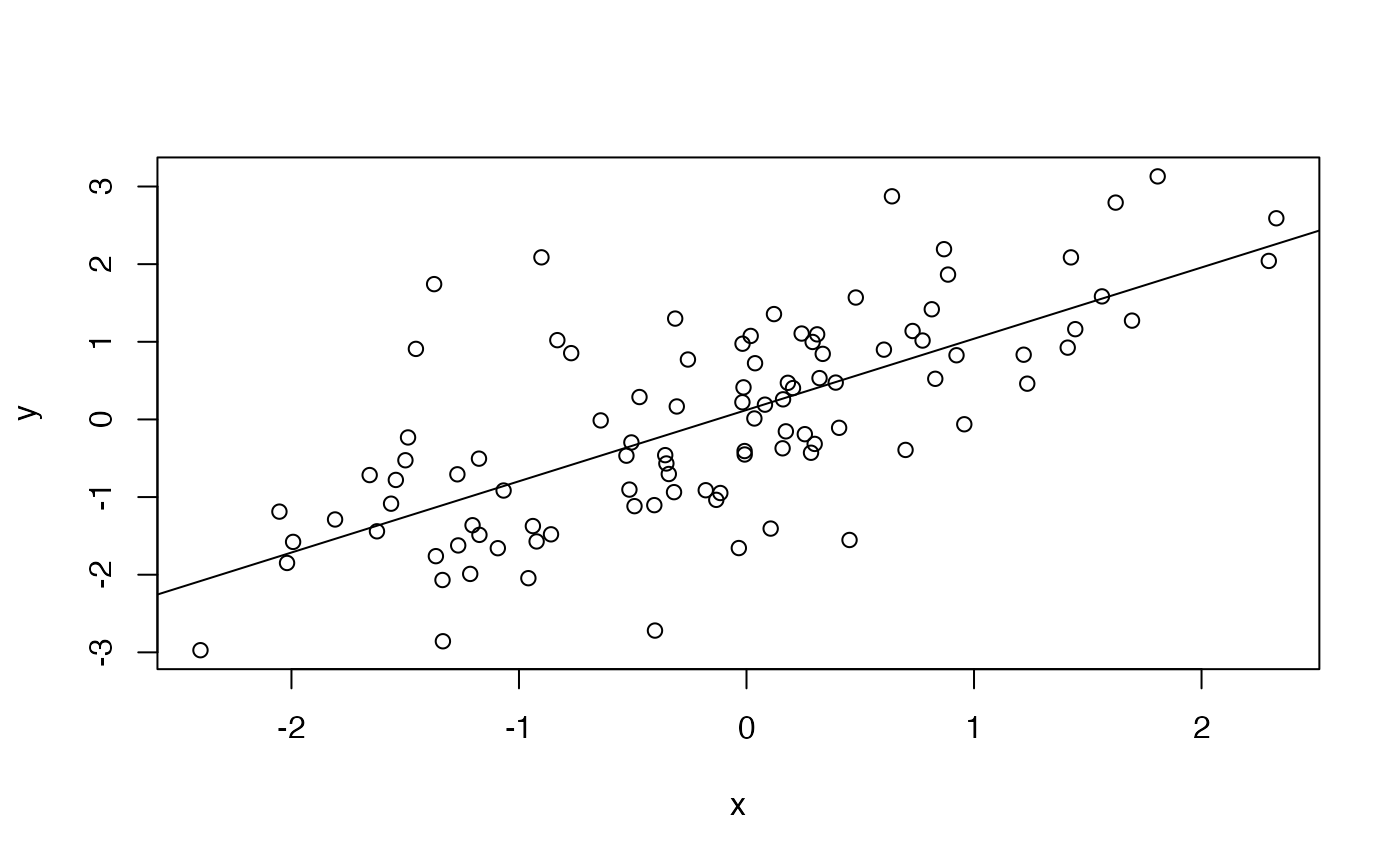
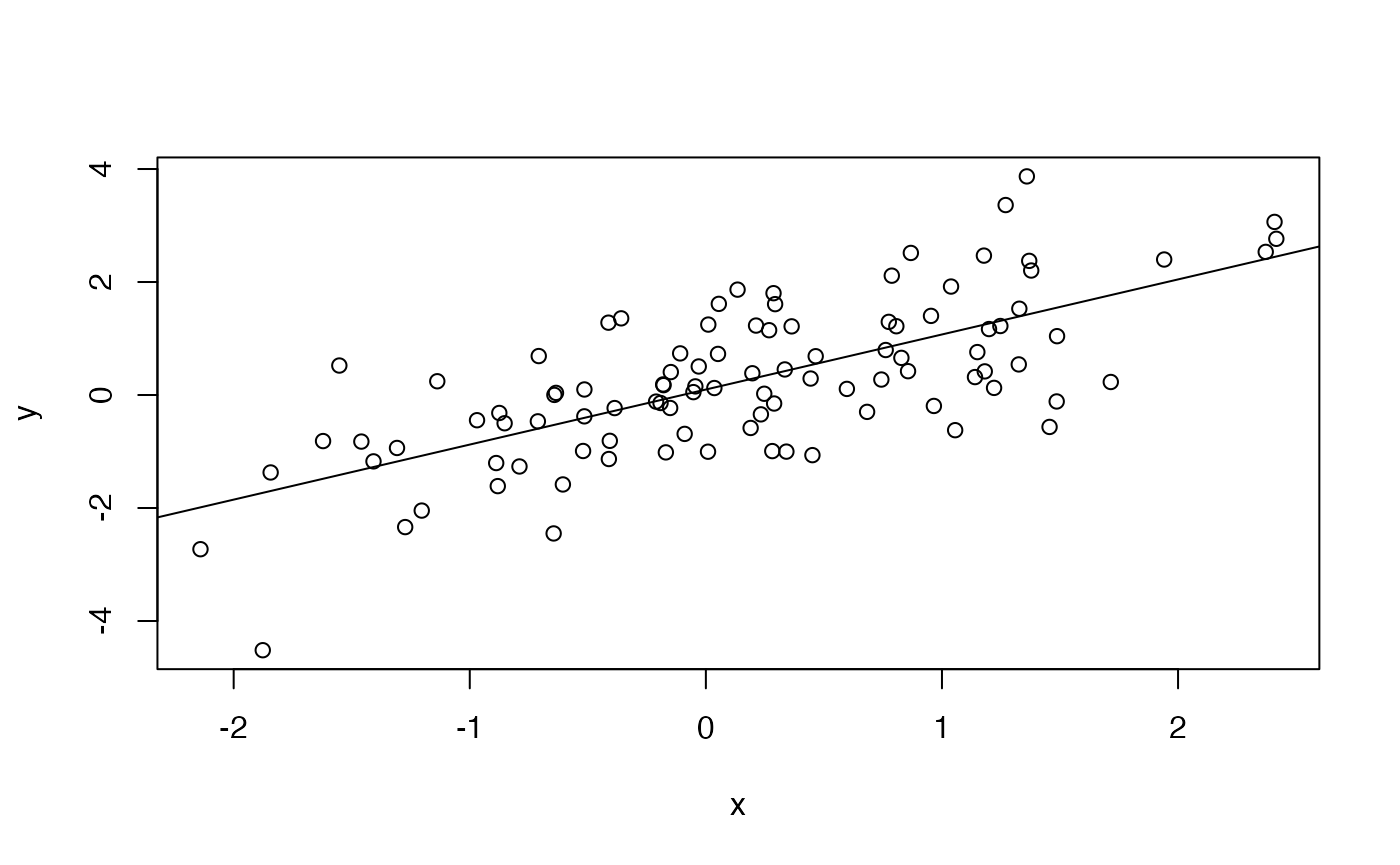
Built site for HCABiocTraining: 0.0.2@

diff --git a/articles/a-intro-to-r.html b/articles/a-intro-to-r.html
@@ -118,7 +118,7 @@
 <p>Functions</p>
 <div class="sourceCode" id="cb5"><pre class="downlit sourceCode r">
 <code class="sourceCode R"><span><span class="fu"><a href="https://rdrr.io/r/stats/Normal.html" class="external-link">rnorm</a></span><span class="op">(</span><span class="fl">5</span><span class="op">)</span>        <span class="co"># 5 random normal deviates</span></span>
-<span><span class="co">## [1]  1.3940221 -0.4628008  0.1390022 -0.3324038  0.3399345</span></span>
+<span><span class="co">## [1] -1.1754598  2.1870949 -1.0378455  0.8206420 -0.2974208</span></span>
 <span><span class="va">x</span> <span class="op">&lt;-</span> <span class="fu"><a href="https://rdrr.io/r/stats/Normal.html" class="external-link">rnorm</a></span><span class="op">(</span><span class="fl">100</span><span class="op">)</span> <span class="co"># 100 random normal deviates</span></span>
 <span><span class="fu"><a href="https://rdrr.io/r/graphics/hist.html" class="external-link">hist</a></span><span class="op">(</span><span class="va">x</span><span class="op">)</span>         <span class="co"># histogram, approximately normal</span></span></code></pre></div>
 <p><img src="a-intro-to-r_files/figure-html/unnamed-chunk-6-1.png" width="700"></p>
@@ -138,7 +138,7 @@ explicit ‘for’ loop</p>
 <span><span class="co">## </span></span>
 <span><span class="co">## Coefficients:</span></span>
 <span><span class="co">## (Intercept)            x  </span></span>
-<span><span class="co">##      0.1216       0.9179</span></span>
+<span><span class="co">##     0.09709      0.97436</span></span>
 <span>            <span class="co"># regression of y on x</span></span>
 <span><span class="fu"><a href="https://rdrr.io/r/graphics/abline.html" class="external-link">abline</a></span><span class="op">(</span><span class="va">fit</span><span class="op">)</span> <span class="co"># plot points and fitted regression line</span></span></code></pre></div>
 <p><img src="a-intro-to-r_files/figure-html/unnamed-chunk-7-1.png" width="700"></p>
@@ -147,9 +147,9 @@ explicit ‘for’ loop</p>
 <span><span class="co">## Analysis of Variance Table</span></span>
 <span><span class="co">## </span></span>
 <span><span class="co">## Response: y</span></span>
-<span><span class="co">##           Df Sum Sq Mean Sq F value   Pr(&gt;F)    </span></span>
-<span><span class="co">## x          1 85.771  85.771  94.267 5.18e-16 ***</span></span>
-<span><span class="co">## Residuals 98 89.167   0.910                     </span></span>
+<span><span class="co">##           Df Sum Sq Mean Sq F value    Pr(&gt;F)    </span></span>
+<span><span class="co">## x          1 90.735  90.735  93.352 6.559e-16 ***</span></span>
+<span><span class="co">## Residuals 98 95.253   0.972                      </span></span>
 <span><span class="co">## ---</span></span>
 <span><span class="co">## Signif. codes:  0 '***' 0.001 '**' 0.01 '*' 0.05 '.' 0.1 ' ' 1</span></span></code></pre></div>
 <p>Write your own functions</p>
@@ -182,7 +182,7 @@ distribution…</p>
 <span>    <span class="fu"><a href="https://rdrr.io/r/base/lapply.html" class="external-link">lapply</a></span><span class="op">(</span><span class="fl">1</span><span class="op">:</span><span class="fl">8</span>, <span class="kw">function</span><span class="op">(</span><span class="va">i</span><span class="op">)</span> <span class="fu"><a href="https://rdrr.io/r/base/Sys.sleep.html" class="external-link">Sys.sleep</a></span><span class="op">(</span><span class="fl">1</span><span class="op">)</span><span class="op">)</span></span>
 <span><span class="op">}</span><span class="op">)</span></span>
 <span><span class="co">##    user  system elapsed </span></span>
-<span><span class="co">##   0.007   0.001   8.033</span></span>
+<span><span class="co">##   0.004   0.001   8.050</span></span>
 <span></span>
 <span><span class="co">## sleep in parallel -- takes only 2 seconds</span></span>
 <span><span class="kw"><a href="https://rdrr.io/r/base/library.html" class="external-link">library</a></span><span class="op">(</span><span class="va">parallel</span><span class="op">)</span></span>
@@ -191,7 +191,7 @@ distribution…</p>
 <span>    <span class="fu"><a href="https://rdrr.io/r/parallel/clusterApply.html" class="external-link">parLapply</a></span><span class="op">(</span><span class="va">cl</span>, <span class="fl">1</span><span class="op">:</span><span class="fl">8</span>, <span class="kw">function</span><span class="op">(</span><span class="va">i</span><span class="op">)</span> <span class="fu"><a href="https://rdrr.io/r/base/Sys.sleep.html" class="external-link">Sys.sleep</a></span><span class="op">(</span><span class="fl">1</span><span class="op">)</span><span class="op">)</span></span>
 <span><span class="op">}</span><span class="op">)</span></span>
 <span><span class="co">##    user  system elapsed </span></span>
-<span><span class="co">##   0.003   0.000   2.047</span></span></code></pre></div>
+<span><span class="co">##   0.003   0.000   2.054</span></span></code></pre></div>
 <p>…or contributed, e.g., <a href="https://cran.r-project.org/package=dplyr" class="external-link">dplyr</a> to introduce
 the ‘tidyverse’</p>
 <div class="sourceCode" id="cb12"><pre class="downlit sourceCode r">
@@ -208,16 +208,16 @@ the ‘tidyverse’</p>
 <span><span class="co">## <span style="color: #949494;"># A tibble: 100 × 2</span></span></span>
 <span><span class="co">##         x        y</span></span>
 <span><span class="co">##     <span style="color: #949494; font-style: italic;">&lt;dbl&gt;</span>    <span style="color: #949494; font-style: italic;">&lt;dbl&gt;</span></span></span>
-<span><span class="co">## <span style="color: #BCBCBC;"> 1</span>  0.129  0.006<span style="text-decoration: underline;">55</span></span></span>
-<span><span class="co">## <span style="color: #BCBCBC;"> 2</span>  0.243 -<span style="color: #BB0000;">0.162</span>  </span></span>
-<span><span class="co">## <span style="color: #BCBCBC;"> 3</span>  0.379 -<span style="color: #BB0000;">0.675</span>  </span></span>
-<span><span class="co">## <span style="color: #BCBCBC;"> 4</span>  0.923  2.51   </span></span>
-<span><span class="co">## <span style="color: #BCBCBC;"> 5</span> -<span style="color: #BB0000;">0.196</span> -<span style="color: #BB0000;">0.855</span>  </span></span>
-<span><span class="co">## <span style="color: #BCBCBC;"> 6</span>  0.390  1.09   </span></span>
-<span><span class="co">## <span style="color: #BCBCBC;"> 7</span> -<span style="color: #BB0000;">0.467</span> -<span style="color: #BB0000;">0.088</span><span style="color: #BB0000; text-decoration: underline;">7</span> </span></span>
-<span><span class="co">## <span style="color: #BCBCBC;"> 8</span> -<span style="color: #BB0000;">0.860</span> -<span style="color: #BB0000;">0.229</span>  </span></span>
-<span><span class="co">## <span style="color: #BCBCBC;"> 9</span> -<span style="color: #BB0000;">0.534</span>  0.690  </span></span>
-<span><span class="co">## <span style="color: #BCBCBC;">10</span>  0.333  0.934  </span></span>
+<span><span class="co">## <span style="color: #BCBCBC;"> 1</span>  0.692  0.007<span style="text-decoration: underline;">34</span></span></span>
+<span><span class="co">## <span style="color: #BCBCBC;"> 2</span>  0.840  0.489  </span></span>
+<span><span class="co">## <span style="color: #BCBCBC;"> 3</span>  0.737  1.28   </span></span>
+<span><span class="co">## <span style="color: #BCBCBC;"> 4</span> -<span style="color: #BB0000;">0.904</span> -<span style="color: #BB0000;">2.18</span>   </span></span>
+<span><span class="co">## <span style="color: #BCBCBC;"> 5</span>  1.39   1.29   </span></span>
+<span><span class="co">## <span style="color: #BCBCBC;"> 6</span>  1.82   1.89   </span></span>
+<span><span class="co">## <span style="color: #BCBCBC;"> 7</span>  1.09   0.308  </span></span>
+<span><span class="co">## <span style="color: #BCBCBC;"> 8</span> -<span style="color: #BB0000;">1.16</span>  -<span style="color: #BB0000;">1.28</span>   </span></span>
+<span><span class="co">## <span style="color: #BCBCBC;"> 9</span> -<span style="color: #BB0000;">0.151</span> -<span style="color: #BB0000;">0.497</span>  </span></span>
+<span><span class="co">## <span style="color: #BCBCBC;">10</span>  0.477 -<span style="color: #BB0000;">0.724</span>  </span></span>
 <span><span class="co">## <span style="color: #949494;"># … with 90 more rows</span></span></span></code></pre></div>
 <p>The tidyverse makes use of ‘pipes’ <code>|&gt;</code>. A pipe takes
 the left-hand side and pass through to the right-hand side. Key <a href="https://cran.r-project.org/package=dplyr" class="external-link">dplyr</a> ‘verbs’ can be
@@ -230,20 +230,20 @@ piped together: <code><a href="https://dplyr.tidyverse.org/reference/filter.html
 <span>    <span class="fu"><a href="https://dplyr.tidyverse.org/reference/filter.html" class="external-link">filter</a></span><span class="op">(</span><span class="va">x</span> <span class="op">&gt;</span> <span class="fl">0</span>, <span class="va">y</span> <span class="op">&gt;</span> <span class="fl">0</span><span class="op">)</span> <span class="op">|&gt;</span></span>
 <span>    <span class="co">## add a column</span></span>
 <span>    <span class="fu"><a href="https://dplyr.tidyverse.org/reference/mutate.html" class="external-link">mutate</a></span><span class="op">(</span>distance_from_origin <span class="op">=</span> <span class="fu"><a href="https://rdrr.io/r/base/MathFun.html" class="external-link">sqrt</a></span><span class="op">(</span><span class="va">x</span><span class="op">^</span><span class="fl">2</span> <span class="op">+</span> <span class="va">y</span><span class="op">^</span><span class="fl">2</span><span class="op">)</span><span class="op">)</span></span>
-<span><span class="co">## <span style="color: #949494;"># A tibble: 46 × 3</span></span></span>
+<span><span class="co">## <span style="color: #949494;"># A tibble: 47 × 3</span></span></span>
 <span><span class="co">##        x       y distance_from_origin</span></span>
 <span><span class="co">##    <span style="color: #949494; font-style: italic;">&lt;dbl&gt;</span>   <span style="color: #949494; font-style: italic;">&lt;dbl&gt;</span>                <span style="color: #949494; font-style: italic;">&lt;dbl&gt;</span></span></span>
-<span><span class="co">## <span style="color: #BCBCBC;"> 1</span> 0.129 0.006<span style="text-decoration: underline;">55</span>                0.129</span></span>
-<span><span class="co">## <span style="color: #BCBCBC;"> 2</span> 0.923 2.51                   2.67 </span></span>
-<span><span class="co">## <span style="color: #BCBCBC;"> 3</span> 0.390 1.09                   1.16 </span></span>
-<span><span class="co">## <span style="color: #BCBCBC;"> 4</span> 0.333 0.934                  0.992</span></span>
-<span><span class="co">## <span style="color: #BCBCBC;"> 5</span> 0.295 1.89                   1.91 </span></span>
-<span><span class="co">## <span style="color: #BCBCBC;"> 6</span> 0.607 1.11                   1.27 </span></span>
-<span><span class="co">## <span style="color: #BCBCBC;"> 7</span> 1.55  1.06                   1.88 </span></span>
-<span><span class="co">## <span style="color: #BCBCBC;"> 8</span> 0.462 1.02                   1.12 </span></span>
-<span><span class="co">## <span style="color: #BCBCBC;"> 9</span> 0.923 1.46                   1.73 </span></span>
-<span><span class="co">## <span style="color: #BCBCBC;">10</span> 0.613 1.27                   1.41 </span></span>
-<span><span class="co">## <span style="color: #949494;"># … with 36 more rows</span></span></span></code></pre></div>
+<span><span class="co">## <span style="color: #BCBCBC;"> 1</span> 0.692 0.007<span style="text-decoration: underline;">34</span>                0.692</span></span>
+<span><span class="co">## <span style="color: #BCBCBC;"> 2</span> 0.840 0.489                  0.972</span></span>
+<span><span class="co">## <span style="color: #BCBCBC;"> 3</span> 0.737 1.28                   1.48 </span></span>
+<span><span class="co">## <span style="color: #BCBCBC;"> 4</span> 1.39  1.29                   1.90 </span></span>
+<span><span class="co">## <span style="color: #BCBCBC;"> 5</span> 1.82  1.89                   2.62 </span></span>
+<span><span class="co">## <span style="color: #BCBCBC;"> 6</span> 1.09  0.308                  1.13 </span></span>
+<span><span class="co">## <span style="color: #BCBCBC;"> 7</span> 1.28  1.82                   2.22 </span></span>
+<span><span class="co">## <span style="color: #BCBCBC;"> 8</span> 0.248 0.478                  0.539</span></span>
+<span><span class="co">## <span style="color: #BCBCBC;"> 9</span> 0.894 0.655                  1.11 </span></span>
+<span><span class="co">## <span style="color: #BCBCBC;">10</span> 2.17  2.08                   3.00 </span></span>
+<span><span class="co">## <span style="color: #949494;"># … with 37 more rows</span></span></span></code></pre></div>
 <p>Another example: <a href="https://cran.r-project.org/package=ggplot2" class="external-link">ggplot2</a> for
 visualization</p>
 <div class="sourceCode" id="cb15"><pre class="downlit sourceCode r">

diff --git a/articles/c-sc-analysis.html b/articles/c-sc-analysis.html
@@ -82,7 +82,26 @@
     
 <div class="sourceCode" id="cb1"><pre class="downlit sourceCode r">
 <code class="sourceCode R"><span><span class="kw"><a href="https://rdrr.io/r/base/library.html" class="external-link">library</a></span><span class="op">(</span><span class="va"><a href="https://mtmorgan.github.io/HCABiocTraining/">HCABiocTraining</a></span><span class="op">)</span></span></code></pre></div>
-  </main>
+<p>Based on <a href="http://bioconductor.org/books/3.16/OSCA.basic/" class="external-link">Orchestrating
+Single-Cell Analysis with Bioconductor</a>.</p>
+<div class="section level2">
+<h2 id="normalization">Normalization<a class="anchor" aria-label="anchor" href="#normalization"></a>
+</h2>
+</div>
+<div class="section level2">
+<h2 id="feature-selection">Feature Selection<a class="anchor" aria-label="anchor" href="#feature-selection"></a>
+</h2>
+</div>
+<div class="section level2">
+<h2 id="dimensionality-reduction">Dimensionality Reduction<a class="anchor" aria-label="anchor" href="#dimensionality-reduction"></a>
+</h2>
+</div>
+<div class="section level2">
+<h2 id="cell-type-annotation">Cell Type Annotation<a class="anchor" aria-label="anchor" href="#cell-type-annotation"></a>
+</h2>
+</div>
+  </main><aside class="col-md-3"><nav id="toc"><h2>On this page</h2>
+    </nav></aside>
 </div>
 
 

diff --git a/articles/d-directions.html b/articles/d-directions.html
@@ -82,7 +82,24 @@
     
 <div class="sourceCode" id="cb1"><pre class="downlit sourceCode r">
 <code class="sourceCode R"><span><span class="kw"><a href="https://rdrr.io/r/base/library.html" class="external-link">library</a></span><span class="op">(</span><span class="va"><a href="https://mtmorgan.github.io/HCABiocTraining/">HCABiocTraining</a></span><span class="op">)</span></span></code></pre></div>
-  </main>
+<div class="section level2">
+<h2 id="directions">Directions<a class="anchor" aria-label="anchor" href="#directions"></a>
+</h2>
+<div class="section level3">
+<h3 id="spatial-transcriptomics">Spatial Transcriptomics<a class="anchor" aria-label="anchor" href="#spatial-transcriptomics"></a>
+</h3>
+</div>
+<div class="section level3">
+<h3 id="image-analysis">Image Analysis<a class="anchor" aria-label="anchor" href="#image-analysis"></a>
+</h3>
+</div>
+</div>
+<div class="section level2">
+<h2 id="seurat-bioconductor-anndata">Seurat, Bioconductor, AnnData, …<a class="anchor" aria-label="anchor" href="#seurat-bioconductor-anndata"></a>
+</h2>
+</div>
+  </main><aside class="col-md-3"><nav id="toc"><h2>On this page</h2>
+    </nav></aside>
 </div>
 
 
